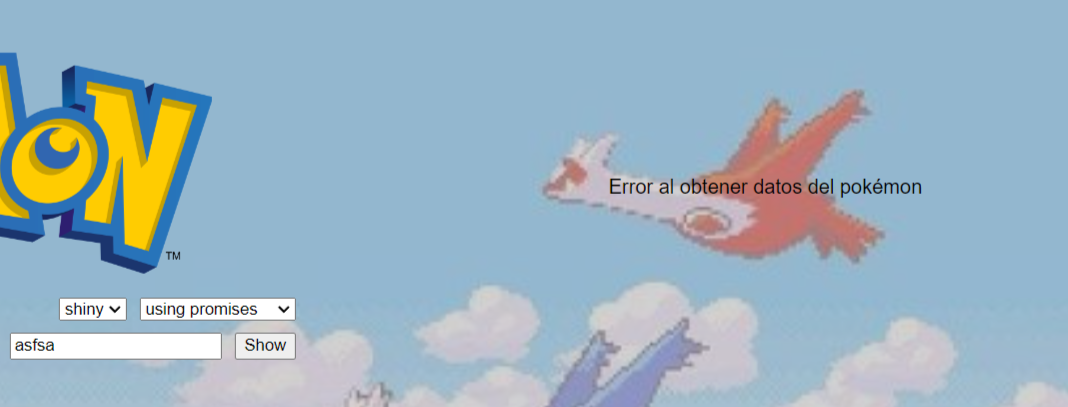
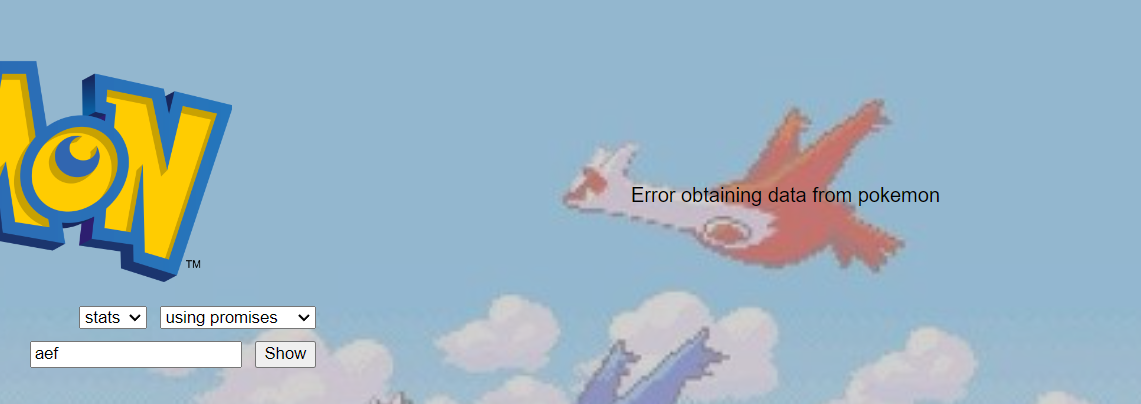
minor changes

diff --git a/scripts/main.js b/scripts/main.js
@@ -64,7 +64,7 @@ const showShiny= (data) => {
 }
 
 const showError = () => {
-   resultadoDiv.textContent = "Error al obtener datos del pokémon";
+   resultadoDiv.textContent = "Error obtaining data from pokémon";
 }
 
 let button= document.getElementById("search");
